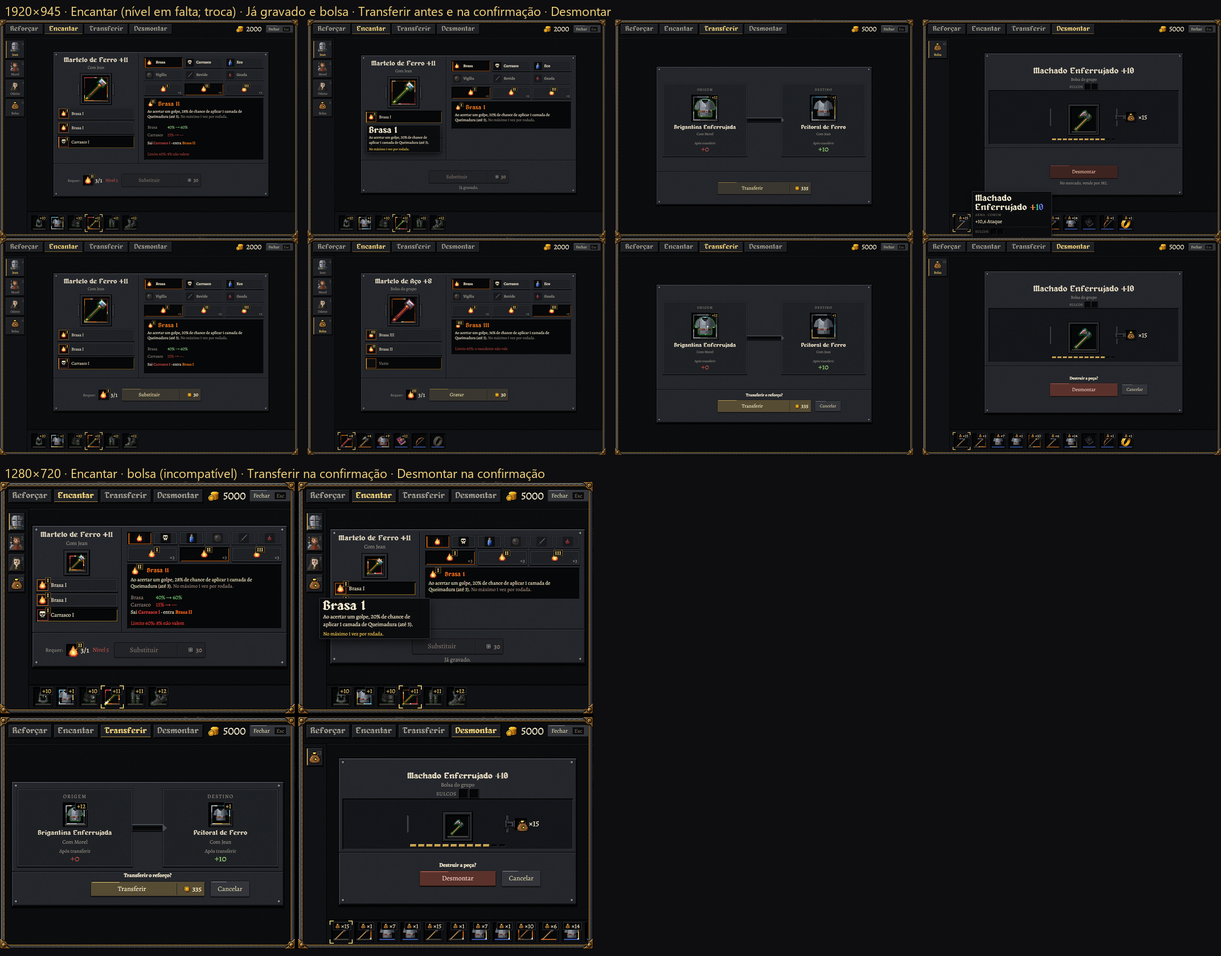
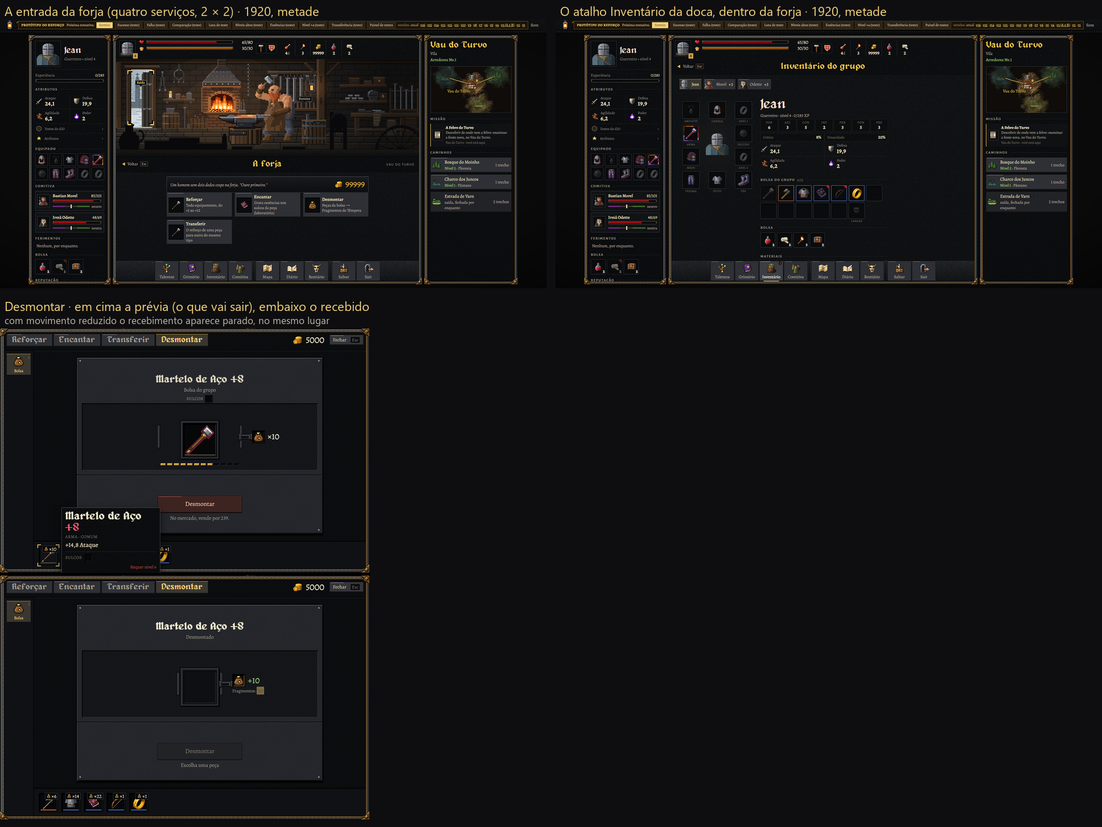
Forja: as folhas e o registro da 17ª e da 1.214.0 (27, LEIA-ME, 25 e 00)
O 27 registra o botão A aprovado (e onde está na produção), os acabamentos A e B das armaduras e a paleta da 16ª
rejeitados, o feixe e a celebração ligada ao acabamento como candidatas, o ouro do +12 guardado como referência de
um eventual +13 (sem criá-lo), o recebimento na desmontagem, o limite no valor do Encantar, a doca nas telas de
serviço, a causa da vida perdida ao entrar e a proposta do atributo adicional da peça toda no teto como não aprovada.
O LEIA-ME ganha a seção da 17ª (o defeito, o pixel azul não reproduzido, o conferido e o roteiro); o 25 aponta para a
rodada; o 00 registra a 17ª, a 1.214.0 e as candidatas de arte. Folhas: armaduras (anterior × feixe com o +8),
celebração, telas e, em hud/acabamento-a, o acabamento A antes e depois, a 1280, o achado e a luta.

Changed region(s): [[0.0, 0.0, 1.0, 0.9917]]

diff --git a/roadmapIDEIAS/27-FORJA-ESPECIFICACAO.md b/roadmapIDEIAS/27-FORJA-ESPECIFICACAO.md
@@ -1,7 +1,7 @@
 # 27 — A forja: especificação do sistema (reforço, materiais, encantamento, transferência)
 
 Documento de referência da etapa 4. Ele descreve o sistema inteiro como está hoje, sem precisar da conversa nem dos
-históricos de protótipo. Atualizado em 28/10/2026 (16ª versão do protótipo), conferido contra o código do
+históricos de protótipo. Atualizado em 28/10/2026 (17ª versão do protótipo), conferido contra o código do
 protótipo (`ferramentas/prototipos/reforco`: `regras.py`, `encanto.py`, `demo.py`, `tela/reforco.js`) e o de
 produção (`rpg/sistemas/servicos.py`).
 
@@ -347,7 +347,7 @@ Cobrado uma vez por pedido. A confirmação mostra os dois resultados e o preço
   conserva. As gravações não mudam a venda.
 - **Desmontagem:** só peças da bolsa. Rende metade dos fragmentos nominais dos níveis conservados, arredondada para
   cima, mais o material da peça. A confirmação diz que o equipamento será destruído e lista as gravações perdidas. A
-  pilha cheia (99) recusa.
+  pilha cheia (99) recusa. Depois de desmontar, a tela mostra o que chegou (seção 9).
 
 ## 7. Herói e companheiros
 - **Peças de todos:** a forja mostra as peças do herói, de cada companheiro e da bolsa, em abas por dono.
@@ -402,13 +402,15 @@ Cobrado uma vez por pedido. A confirmação mostra os dois resultados e o preço
   - **a essência:** primeiro a família (o ícone e o nome; a 1280, só o ícone), depois o tier I, II ou III: o símbolo
     com o tier no canto de cima à direita e a quantidade no canto de baixo, fora do símbolo;
   - **a prévia**, calculada no motor (`demo.previsao`): a essência escolhida com o efeito dela (o valor do tier), numa
-    substituição só os valores que mudam, com o nome do efeito ("Brasa 40% → 60%", "Carrasco 15% → —"), o total de
-    quem veste só quando o limite corta ("Total em Jean …"), a troca ("Sai Carrasco I · entra Brasa II") e a
-    consequência antes de pagar ("Limite 60%: 8% não valem"); na bolsa, quando o requisito da peça sobe, "A peça passa
-    a requerer nível 9". **[Substituído, 16ª]** "Brasa nesta peça", a linha de quem veste sempre que outra peça somava e
-    "Requer nível 5 (Jean: 4). Na bolsa, pode gravar.";
+    substituição só os valores que mudam, com o nome do efeito ("Brasa 40% → 60% · limite", "Carrasco 15% → —"), o
+    total de quem veste só quando o limite corta ("Total em Jean …") e a troca ("Sai Carrasco I · entra Brasa II"); o
+    limite aparece no próprio valor final ("60% · limite") e, só quando nada muda porque já estava no limite, uma nota
+    curta ("Brasa já está no limite (60%)"); na bolsa, quando o requisito da peça sobe, "A peça passa a requerer nível
+    9". **[Substituído, 16ª]** "Brasa nesta peça", a linha de quem veste sempre que outra peça somava e "Requer nível 5
+    (Jean: 4). Na bolsa, pode gravar."; **[Substituído, 17ª]** "Limite 60%: 8% não valem" (a conta do que sobra);
   - o pé fixo: "Requer: [essência] 3/1" (e "Nível 5" numa peça vestida, quando a gravação sobe o requisito), o botão
-    Gravar ou Substituir com o preço dentro; substituir pede confirmação no mesmo lugar; a mesma gravação aparece como
+    Gravar ou Substituir com o preço dentro; substituir pede confirmação no mesmo lugar, numa frase só ("Substituir?
+    Carrasco I se perde.", sem repetir a perda na nota); a mesma gravação aparece como
     "Já gravado", sem o "Requer:", e não cobra;
   - a gravação concluída aparece na mesma apresentação em destaque, sem suspense, com a gravação nova em destaque
     (o efeito dela) e a que saiu.
@@ -431,6 +433,21 @@ Cobrado uma vez por pedido. A confirmação mostra os dois resultados e o preço
   - depois do OK, as escolhas se limpam (nenhum par novo é escolhido sozinho) e o foco volta ao encaixe da origem.
 - **Desmontar:** o nome da peça como título, "No mercado, vende por X." e a confirmação no pé ("Destruir a peça?",
   as gravações perdidas na nota, o Desmontar no mesmo lugar); a transformação é curta, sem celebração.
+  - **O recebimento [Protótipo, 17ª]:** a prévia mostra a peça e o que vai sair ("×10" ao lado do material); depois da
+    transformação, o encaixe da peça fica vazio, o título diz o nome com o reforço e "Desmontado", e, ao lado do
+    material, o que chegou ("+10", em verde) e o saldo novo ("Fragmentos: 30"), que acende uma vez. A prévia e o
+    recebido se distinguem pelo sinal (× do que vai sair, + do que entrou), pelo encaixe vazio e pelo título. Com
+    movimento reduzido, o recebido aparece parado, no mesmo lugar. Fica até a próxima escolha de peça.
+- **Entrada da forja [17ª]:** os quatro serviços numa grade 2 × 2 (antes, três numa linha e um sozinho embaixo).
+- **A doca dentro da forja [Produção, 1.214.0]:** os atalhos da barra de baixo (Inventário, Comitiva, Grimório…)
+  funcionam também nas telas de serviço (a forja, o mercado, a taverna, o templo): o atalho volta ao lugar e abre a
+  tela pedida. Antes, eram recusados fora do menu do lugar, o que não fazia sentido para o jogador (pedido do Jean).
+  O motor marca o Voltar dessas telas com `lugar: True`.
+- **A vida ao entrar na forja [Corrigido, 17ª]:** entrar na forja do protótipo tirava vida (Jean 65 → 60, Morel
+  85 → 79). A causa: a comparação hipotética da ficha (`demo.comparar`, que veste e desveste a peça para medir a
+  diferença) cortava a vida no máximo sem a peça e não a devolvia. Agora a comparação guarda a vida antes e a repõe
+  depois. A forja de produção não tinha o defeito (conferido: três entradas e saídas sem mudar vida, máximo, dia nem
+  período). Teste pelo caminho real (`TestEntrarNaForja`).
 - **A troca de tela sem piscar [16ª]:** a cada pedido, o motor redesenha a forja como uma cena nova (a página se limpa)
   e manda o painel em seguida. Até a 15ª, o painel era calculado entre as duas mensagens, e numa máquina lenta o
   navegador pintava a oficina sem a janela ("às vezes", 10 a 16 ms aqui; reproduzido com 80 ms). Agora o motor calcula
@@ -480,19 +497,26 @@ Cobrado uma vez por pedido. A confirmação mostra os dois resultados e o preço
 - **Tier:** I, II ou III numa etiqueta no canto de cima à direita do símbolo da essência, na linguagem da etiqueta do
   reforço (+N): placa escura, aresta de latão, 13 px a 1920 e 12 px a 1280, fora do desenho; nos materiais, na seleção
   da forja, nos sulcos, nas fichas e no espólio; a quantidade fica noutro canto. **[Substituído, 16ª]** o selo de 9 px.
-- **Botões da forja [Candidatas, sem escolha]:** A · ferro encaixado (planos chapados, cantos em degrau, luz curta na
-  aresta de cima, base escura) e B · ferro com presilhas de latão. Pressionar afunda a face sem mover o botão; o foco é
-  um anel de latão por dentro. Aplicadas só na forja (as ações, o Cancelar, o OK e o Fechar); os outros usos do jogo
-  estão listados no LEIA-ME (16ª) para a variante escolhida.
-- **Armaduras do +9 ao +12 [Candidatas, sem escolha]:** capacete, peito, luvas, pernas e botas, em vez do veio de
-  faixas diagonais: A · brilho nas bordas (uma orla baixa na cor do nível por dentro da silhueta e 1 a 4 pontos de luz
-  percorrendo a borda) e B · reflexo estreito (uma passada de 1 px, 2 no +11 e +12, menos opaca). O contorno aprovado
-  fica; a passada larga do reflexo não passa nelas. Armas, joias, escudos, tomos e aljavas continuam com o veio; até o
-  +8, nada muda. O ciclo vem de um relógio comum com um desvio fixo pelo lugar da peça (um redesenho não o recomeça).
-- **Celebração do +9 ao +12 [Candidata, sem escolha]:** uma cor dominante e uma secundária (+9 violeta; +10 violeta e
-  azul; +11 ouro quente e âmbar; +12 ouro, âmbar e brilhos de marfim), o prisma só em alguns estilhaços, a grandeza
-  pela forma (leques de raios, alcance, estrela, anéis). O +8 e os de baixo não mudam (pedido do Jean). A anterior
-  fica no painel de testes para comparar.
+- **Botões: o acabamento A [Aprovado, 17ª]:** ferro encaixado (planos chapados, cantos em degrau, luz curta na
+  aresta de cima, base escura). Pressionar afunda a face sem mover o botão; o foco é um anel de latão por dentro. Na
+  forja: as ações, o Cancelar, o OK, o Fechar, as abas, os donos, as famílias, os tiers e os sulcos. Na produção
+  (1.214.0, `css/27-ferro.css`): os Caminhos, os serviços dos lugares (Mercado, a entrada do ferreiro, a taverna), a
+  doca, os cartões do Bestiário e da Comitiva (com a barra), as abas do Inventário, "Distribuir pela sugestão" e os
+  "+" dos atributos (uma plaquinha de latão). **[Rejeitado, 17ª]** o B (presilhas de latão), retirado do protótipo.
+- **Armaduras do +9 ao +12 [Candidata, 17ª]:** capacete, peito, luvas, pernas e botas, em vez do veio de faixas
+  largas: o **feixe**, linhas diagonais de 1 px na mesma força do veio do +8 (a sutileza dele), estreito, com as cores
+  ligadas ao nível (+9 rubi e âmbar; +10 mais o azul; +11 mais o esmeralda; +12 marfim, rubi, âmbar, esmeralda, azul e
+  violeta), passando pela peça. O contorno aprovado fica; a passada larga do reflexo não passa nelas. Armas, joias,
+  escudos, tomos e aljavas continuam com o veio. O +8 fica exatamente como estava. O ciclo vem de um relógio comum
+  com um desvio fixo pelo lugar da peça. O veio anterior fica no painel de testes para comparar. **[Rejeitados,
+  17ª]** o A (brilho nas bordas) e o B (reflexo estreito) da 16ª.
+- **Celebração do +9 ao +12 [Candidata, 17ª]:** as cores ligadas ao acabamento da peça, uma dominante e uma
+  secundária (+9 rubi e âmbar; +10 laranja e azul; +11 âmbar e esmeralda; +12 âmbar e violeta), o prisma só em alguns
+  estilhaços, a grandeza pela forma (leques de raios, alcance, estrela, anéis). O +8 e os de baixo não mudam (pedido
+  do Jean). A anterior fica no painel de testes. **[Rejeitada, 17ª]** a paleta da 16ª (violeta e ouro sem ligação com
+  a peça), que incomodava a partir do +9. **Referência para um +13 [Guardado]:** o ouro da candidata da 16ª no +12
+  (ouro, âmbar e marfim) fica no painel ("Ouro ref. +13") como referência, caso o limite um dia passe do +12; nenhum
+  +13 foi criado.
 - **Fichas** (a hierarquia das fichas do Diablo IV, com a arte do jogo), nesta ordem:
   1. o nome e o reforço ("Martelo de Aço +3");
   2. o tipo e a raridade; a base sai dos parênteses do título e vai para esta linha ("Machado · Lendário", sem
@@ -511,7 +535,7 @@ Cobrado uma vez por pedido. A confirmação mostra os dois resultados e o preço
 
 ## 11. Casos de teste e exemplos
 
-**Testes automáticos** (`ferramentas/prototipos/reforco/testes`, 61):
+**Testes automáticos** (`ferramentas/prototipos/reforco/testes`, 62):
 - todo passo de todo espaço, do +0 ao +12, melhora alguma linha, sem casa que o motor não usa e sem passar um degrau da
   conta; a peça sem portador recebe reforço; a peça toda no teto não cobra; a fração na ficha e na luta; o painel de
   testes;
@@ -527,7 +551,8 @@ Cobrado uma vez por pedido. A confirmação mostra os dois resultados e o preço
 - o saque real dando materiais pela criatura;
 - Carrasco pela tabela; Revide pela soma até o limite e no máximo 2 por rodada; Eco até 2 por luta;
 - lutas de verdade;
-- salvar e carregar.
+- salvar e carregar;
+- entrar e sair da forja pelo caminho real sem mudar a vida (17ª).
 
 **Cenários da faixa da demonstração** (só no save temporário):
 - **Níveis altos (teste):** peças de +4 a +12, duas com três gravações; e (16ª) Jean com capacete, luvas, pernas e
@@ -549,7 +574,7 @@ Cobrado uma vez por pedido. A confirmação mostra os dois resultados e o preço
 
 **Exemplo completo:** Jean (nível 4) veste a arma com Brasa I + Brasa I + Carrasco I (Brasa 40%). Ao escolher Brasa
 II para o terceiro sulco (onde está Carrasco I), a prévia diz o efeito da Brasa II (28% de chance), "Brasa 40% →
-60%", "Carrasco 15% → —", "Sai Carrasco I · entra Brasa II" e "Limite 60%: 8% não valem"; o pé diz "Requer: [Brasa
+60% · limite", "Carrasco 15% → —" e "Sai Carrasco I · entra Brasa II"; o pé diz "Requer: [Brasa
 II] 3/1 · Nível 5" com o nível em vermelho, e o botão "Substituir · [moeda] 30" fica bloqueado. No nível 5, a mesma gravação passa e, na luta, cada golpe que acerta tem 60% de chance de Queimadura, no
 máximo 1 vez por rodada.
 
@@ -570,11 +595,12 @@ máximo 1 vez por rodada.
 - **Decisões substituídas** (registradas para não voltarem): o limite +4; a escolha Fio ou Runas; o reforço só da
   base; o dobro dos apoios; "a mesma essência não repete"; um efeito por essência gravada; o nível total de 1 a 5
   com teto (agora, cada tier com o seu valor e a soma até o limite de cada efeito).
-- **Candidatas da 16ª a escolher (Jean):** os botões A ou B; o acabamento das armaduras A ou B; a paleta da
-  celebração do +9 ao +12. Depois, aplicar o botão escolhido aos outros usos do jogo (lista no LEIA-ME).
+- **Candidatas da 17ª a avaliar (Jean):** o feixe das armaduras do +9 ao +12 e a paleta da celebração ligada ao
+  acabamento. O botão A está aprovado e aplicado (seção 10).
 - **Integração da fração:** os atributos com casa decimal e o acúmulo de Espinhos, Vida por turno e Vida por abate
   estão no protótipo (`demo.decimais_na_luta`); na integração, vão para `entidades`, `comitiva` e a luta, com o
   gabarito atualizado de propósito.
-- **Peça toda no teto:** a proposta (crescer pela linha fixa mais próxima da base) espera decisão.
+- **Peça toda no teto:** a proposta (crescer pela linha fixa mais próxima da base) espera decisão. **[Não aprovada,
+  17ª; registrada, sem implementar]** dar um atributo adicional quando todas as propriedades da peça atingem o teto.
 - **Mercado:** a peça acima do nível não se equipa ali (o motor recusa), mas o texto do jogo ainda diz "não é para a
   sua classe" (mercado.js, produção); a corrigir na integração.

diff --git a/ferramentas/prototipos/reforco/LEIA-ME.md b/ferramentas/prototipos/reforco/LEIA-ME.md
@@ -9,8 +9,8 @@ jogo não mudaram. Os números são hipóteses desta rodada, não balanceamento.
 Dê dois cliques em `demo.bat` (ou `python ferramentas/prototipos/reforco/demo.py` na raiz). O jogo de sempre abre no
 navegador num **save temporário** (uma pasta nova a cada vez; os saves pessoais não são lidos nem tocados): o Guerreiro
 no nível 4, no Vau, com Morel e Odette, 380 de ouro, dois baús e as peças dos exemplos. Feche a janela do terminal
-para parar. Folhas da 16ª: `folha-botoes.png`, `folha-acabamento-armaduras.png`, `folha-paleta.png` e
-`folha-telas.png` (seção da 16ª). Das versões anteriores: `folha-comparacao.png` e `folha-estados.png` (15ª),
+para parar. Folhas da 17ª: `folha-acabamento-armaduras.png`, `folha-paleta.png` e `folha-telas.png` (seção da
+17ª). Das versões anteriores: `folha-botoes.png` (16ª, A × B), `folha-comparacao.png` e `folha-estados.png` (15ª),
 `folha.png` (o resultado do reforço) e `folha-acabamento.png` (o acabamento do +1 ao +12). A especificação do sistema
 inteiro: [27](../../../roadmapIDEIAS/27-FORJA-ESPECIFICACAO.md).
 
@@ -18,7 +18,77 @@ Só nesta execução, `demo.py` troca a forja (o balcão novo), o baú (que pode
 "Materiais" do Inventário, a venda da peça reforçada, a ficha das peças nas telas (as gravações) e liga os efeitos das
 gravações na luta. O resto é o jogo: o Inventário do grupo, o mercado, a luta, a estrada.
 
-## 16ª versão: ganho real em todo reforço, formatos comuns, candidatas visuais e o painel de testes (em avaliação)
+## 17ª versão: a vida na entrada, o feixe nas armaduras, a celebração ligada ao acabamento, o recebimento e o botão A (em avaliação)
+
+**O sistema inteiro está no [27](../../../roadmapIDEIAS/27-FORJA-ESPECIFICACAO.md)** (6, 9, 10, 11 e 12). Chances,
+custos, limite +12, distribuição de essências e regras de transferência não mudaram. A 16ª está em
+`tela/historico/v16` (`?tela=v16`). Folhas desta versão: `folha-acabamento-armaduras.png` (o veio anterior × o feixe
+candidato, três quadros, com o +8 de referência na primeira coluna), `folha-paleta.png` (a celebração anterior × a
+candidata do +9 ao +12, a 1,25 s e a 2,3 s) e `folha-telas.png` (a entrada com os quatro serviços, o atalho do
+Inventário dentro da forja e a desmontagem: a prévia e o recebido).
+
+### O defeito: vinte de vida ao entrar no ferreiro
+Entrar no ferreiro do protótipo tirava vida (Jean 65 → 60, Morel 85 → 79). **Causa:** a ficha das peças compara com o
+que se veste (`comparar`, que veste e desveste a peça para medir a diferença); sem a peça, o máximo de vida caía e a
+vida era cortada nele, e ao vestir de volta o máximo voltava, mas a vida não. **Correção na origem:** a comparação
+hipotética guarda a vida de quem veste antes de mudar e a repõe depois de desfazer. **Teste pelo caminho real**
+(`TestEntrarNaForja`): entra pelo ferreiro da demonstração e sai; falha sem a correção (65 → 60 e 85 → 79). A forja de
+produção não tem o defeito (três entradas e saídas sem mudar vida, máximo, dia nem período).
+
+### Visual (candidatas e aprovado)
+- **Botão A [aprovado]:** o B saiu do protótipo; a forja usa o A também nas abas, nos donos, nas famílias, nos tiers e
+  nos sulcos. Na produção (1.214.0) ele foi aplicado em separado (`rpg/web/static/css/27-ferro.css`), sem depender
+  desta pasta: os Caminhos, os serviços dos lugares, a doca, o Bestiário, a Comitiva, as abas e os botões do
+  Inventário.
+- **Armaduras do +9 ao +12 [candidata]:** o feixe: linhas diagonais de 1 px na força do veio do +8, estreito, com as
+  cores do nível (+9 rubi e âmbar, uma cor a mais por nível até as seis do +12). O A e o B da 16ª foram rejeitados; o
+  +8 não mudou. O veio anterior fica no painel ("Feixe" × "Veio anterior").
+- **Celebração do +9 ao +12 [candidata]:** as cores ligadas ao acabamento da peça (+9 rubi e âmbar; +10 laranja e
+  azul; +11 âmbar e esmeralda; +12 âmbar e violeta). A paleta da 16ª (violeta e ouro) foi rejeitada. O ouro do +12 da
+  16ª fica no painel ("Ouro ref. +13") como referência, caso um dia exista o +13; nenhum +13 foi criado.
+- **Desmontar:** depois da transformação, o encaixe fica vazio, o título diz "Desmontado" e, ao lado do material, o
+  que chegou ("+10") e o saldo novo ("Fragmentos: 30"), parados no movimento reduzido. A prévia ("×10") e o recebido
+  se distinguem pelo sinal, pelo encaixe vazio e pelo título.
+- **Entrada:** os quatro serviços numa grade 2 × 2.
+
+### Texto
+- **Encantar:** o limite aparece no valor ("Brasa 40% → 60% · limite"); "Limite 60%: 8% não valem" saiu. Só quando
+  nada muda porque já estava no limite, a nota curta "Brasa já está no limite (60%)".
+- **Substituir:** a confirmação numa frase ("Substituir? Carrasco I se perde."), sem repetir a perda na nota.
+- **Materiais:** o título é só "Materiais" (a explicação saiu); a dica do material vale também no "Requer:".
+- **Recompensa:** o texto em cima do "Ir para a vila" saiu.
+
+### Fora do protótipo (produção 1.214.0, em commits separados)
+A doca dentro das telas de serviço (o pedido do Jean: o Inventário dentro da forja), o preço do Mercado à vista sem
+ouro, o nível dos companheiros na luta, o achado nítido a 125%, os textos (sem "brejo", sem "Curas param em N", sem os
+rodapés que explicam o clique) e o acabamento A. Registro no [00](../../../roadmapIDEIAS/00-COMECE-AQUI.md).
+
+### Não reproduzido: o pixel azul
+O pixel azul que ficava perto do item depois do achado não apareceu: os dois caminhos (equipar e guardar) a 100% e
+125%, a varredura dos pixels da página e a do DOM depois de fechar a janela (o canvas da festa sai com ela).
+Hipóteses: um estilhaço da festa desenhado no último quadro antes de o canvas sair, numa máquina mais lenta; o
+contorno do +N (azul no +6) de uma dica que ficou para trás. Se voltar, uma captura com a escala do Windows ajuda.
+
+### Conferido
+- **Testes do protótipo (62).** Suíte do jogo (728), gabarito, pyflakes e a fumaça do navegador na versão final.
+- **A 1920×945:** o atalho Inventário da doca dentro da forja abre o "Inventário do grupo"; a tira das armaduras (o
+  anterior, o feixe e o +8 na mesma peça e no mesmo fundo); a celebração candidata × anterior; a desmontagem com o
+  recebido. O acabamento A na produção a 1920 e a 1280 (antes e depois com os mesmos dados).
+- **Não conferido nesta rodada:** a bateria de resoluções e escalas inteira (só os componentes afetados), e os estados
+  de mouse, pressionado e foco de cada componente A da produção um a um (vistos no Caminho e nos atalhos).
+
+### Roteiro (uns 5 minutos)
+1. **Ferreiro:** veja a vida no topo antes e depois de entrar e sair (não muda). A entrada tem os quatro serviços 2 × 2.
+2. **Dentro da forja, doca → Inventário:** volta ao lugar e abre o Inventário do grupo.
+3. **Níveis altos (teste) → Reforçar** as armaduras de Jean (+9 a +12): o feixe; troque no painel para o veio
+   anterior e compare com o +8.
+4. **Sucesso (teste):** reforce a arma da bolsa do +8 ao +12 com a celebração candidata, depois a anterior e o
+   "Ouro ref. +13".
+5. **Essências (teste) → Encantar** a arma de Jean, 3º sulco, Brasa II: "Brasa 40% → 60% · limite"; Substituir: a
+   pergunta numa frase.
+6. **Desmontar** uma peça da bolsa: a prévia "×N" e, depois, "+N" com o saldo novo.
+
+## 16ª versão: ganho real em todo reforço, formatos comuns, candidatas visuais e o painel de testes (histórico)
 
 **O sistema inteiro está no [27](../../../roadmapIDEIAS/27-FORJA-ESPECIFICACAO.md)** (1.1, 1.2, 3.3, 9, 10 e 11).
 Chances, custos, limite +12, sucesso +1 e falha −1 sem quebra, tiers, requisitos e transferência não mudaram. A 15ª

diff --git a/roadmapIDEIAS/00-COMECE-AQUI.md b/roadmapIDEIAS/00-COMECE-AQUI.md
@@ -7990,3 +7990,42 @@ Tudo no protótipo (`ferramentas/prototipos/hud/LEIA-ME.md`, as seções de mesm
   foi capturada (a ficha foi conferida pelas dicas).
 - **Decisões abertas (Jean):** botões A ou B; acabamento das armaduras A ou B; a paleta candidata; a proposta para a
   peça toda no teto. **Próximo:** a avaliação do Jean. Nada integrado; som adiado; a etapa 4 continua aberta.
+
+### 28/10/2026 (data do computador local) — Forja: a 17ª versão; o acabamento A, a doca e os defeitos na produção (1.214.0)
+
+- **Pedido:** a perda de vida ao entrar no ferreiro (prioridade); um acabamento novo e sutil para as armaduras do +9 ao
+  +12 (o +8 intacto); a celebração do +9 ao +12 ligada ao acabamento (o ouro do +12 guardado para um eventual +13);
+  o recebimento na desmontagem; o botão A (aprovado) nos outros componentes do jogo; textos; o preço do Mercado sem
+  ouro; o pixel azul e o item borrado no achado; candidatas de arte do ferreiro e do busto da Odette; o nível dos
+  companheiros na luta. E a pergunta do Jean: os atalhos da barra de baixo recusados em lugares sem sentido (dentro
+  da forja). Sim, fazia sentido revisar: agora funcionam.
+- **Protótipo (LEIA-ME, 17ª; 27, seções 6, 9, 10, 11 e 12):**
+  - **a vida:** a comparação hipotética da ficha cortava a vida no máximo sem a peça e não a devolvia; agora guarda e
+    repõe (teste pelo caminho real). A produção não tinha o defeito;
+  - **visual:** o B saiu; o feixe nas armaduras (candidata); a celebração ligada ao acabamento (candidata); o
+    recebimento na desmontagem; a entrada 2 × 2. O A e o B das armaduras e a paleta da 16ª foram rejeitados;
+  - **texto:** o limite no valor ("60% · limite"), a substituição numa frase, "Materiais" sem a explicação.
+- **Produção (1.214.0, um commit por assunto):**
+  - **a doca nas telas de serviço:** o motor marca o Voltar da forja, do mercado, da taverna e do templo
+    (`lugar: True`) e a doca aceita o atalho ali (volta ao lugar e abre a tela);
+  - **Mercado:** o preço fica à vista (em vermelho) quando falta ouro, com o motivo embaixo;
+  - **luta:** o nível dos companheiros no cartão ("Nv.6");
+  - **achado:** a peça ficava borrada a 125% (posição fracionária numa camada composta); agora assenta no pixel do
+    aparelho depois da cerimônia (349 → 0 pixels diferentes do arquivo a 125%);
+  - **textos:** "Brejo" virou "Alagado" e a Hidra, "do Pântano" (os ids ficaram; o replay traduz os nomes antigos);
+    sem "Curas param em N" e sem os rodapés que explicam o clique (Inventário, Mercado, serviços, painéis, Comitiva,
+    fogueira, talentos);
+  - **acabamento A** (`css/27-ferro.css`): Caminhos, serviços, Mercado, doca, cartões da Comitiva (sem o rodapé) e do
+    Bestiário (o que falta descobrir como estado bloqueado, com o cadeado), abas do Inventário, "Distribuir pela
+    sugestão" e os "+";
+  - **gabarito atualizado de propósito:** as diferenças são o `lugar` no Voltar, o `sem_ouro` no Mercado, o `nivel`
+    dos companheiros, o `falta` do Bestiário e a dica sem "Curas param em N".
+- **Candidatas de arte (não aplicadas):** o ferreiro (`hud/forja/h2/candidata_ferreiro.py`: o cabo atravessando a mão
+  no sobe2, a nuca, o calcanhar da bigorna à frente da barriga; a perspectiva da bigorna vista de cima e o ferreiro
+  atrás dela são intencionais) e o busto da Odette (`hud/odette-busto/`: ombros de 38 para 32 pixels, o hábito abrindo
+  devagar; o rosto igual), com as folhas.
+- **Não reproduzido:** o pixel azul depois do achado (LEIA-ME da forja, 17ª: o que foi testado e as hipóteses).
+- **Conferido:** 62 testes do protótipo; 728 do projeto, gabarito, pyflakes e a fumaça; capturas a 1920×945 e
+  1280×720 nas telas afetadas. Não foi feita a bateria inteira de resoluções.
+- **Decisões abertas (Jean):** o feixe das armaduras; a paleta da celebração; as candidatas do ferreiro e da Odette;
+  o estado bloqueado do Bestiário. Som adiado; a etapa 4 continua aberta.

diff --git a/roadmapIDEIAS/25-ETAPA4-REFORCO-E-ENCANTAMENTO.md b/roadmapIDEIAS/25-ETAPA4-REFORCO-E-ENCANTAMENTO.md
@@ -9,6 +9,13 @@
 > Candidatas visuais para o Jean escolher: botões A/B, acabamento das armaduras do +9 ao +12 A/B e a paleta da
 > celebração do +9 ao +12. Corrigida a piscada ao reforçar; o painel de testes. Chances e custos sem mudança. Detalhe
 > no 27 e no LEIA-ME do protótipo (16ª).
+>
+> **Rodada 17 (28/10/2026), protótipo:** o botão A aprovado (o B saiu) e aplicado também na produção (1.214.0); os
+> acabamentos A e B das armaduras rejeitados, o feixe estreito como nova candidata (o +8 intacto); a celebração do +9
+> ao +12 com as cores ligadas ao acabamento (candidata; o ouro da 16ª guardado como referência de um eventual +13, sem
+> criá-lo); o recebimento na desmontagem; corrigida a perda de vida ao entrar no ferreiro do protótipo. A proposta de um
+> atributo adicional para a peça toda no teto não foi aprovada (registrada). Chances, custos, limite, essências e
+> transferência sem mudança. Detalhe no 27 e no LEIA-ME do protótipo (17ª).
 
 Atualizado em 26/10/2026 após o debate com Jean sobre reforço e materiais. **Esta revisão altera somente documentação.** A forja H2 encerrou a etapa 3; combate e comitiva estão integrados até a 1.213.0. A etapa 4 continua aberta, agora com direção aprovada para um protótipo de reforço e materiais.
 
